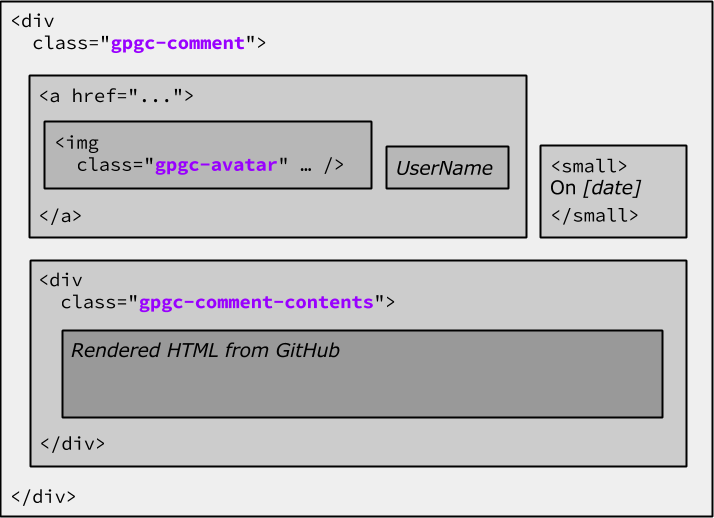
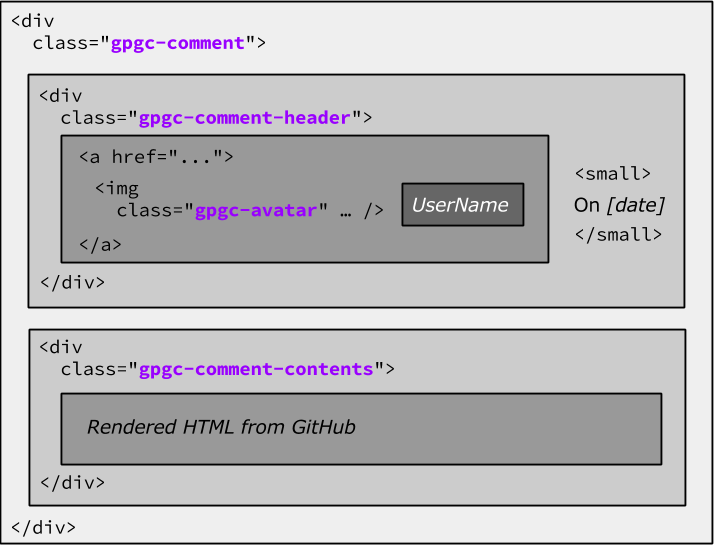
Update manual to describe new on-page commenting

diff --git a/advanced/manual.md b/advanced/manual.md
@@ -16,10 +16,12 @@ title: Manual
   * [When comments are presented](#presented)
   * [Comment structure](#comment-structure)
 * [Look and Feel with CSS](#look-and-feel)
+  * [Theme](#theme)
+  * [Class list](#class-list)
 
 ## <a id="theory-of-operation"></a>Theory of Operation
 
-ghpages-ghcomments associates a blog post with a GitHub issue using the post's **title** front matter.
+ghpages-ghcomments uses GitHub issues to store comments by associating a specific page with a specific GitHub issue using the page's **title** front matter.
 
 For example, using this title in a post
 
@@ -30,13 +32,21 @@ title: The Phrenic Shrine Reveals Itself
 ---
 ```
 
-causes ghpages-ghcomments to look for an issue titled _The Phrenic Shrine Reveals Itself_ in a specific GitHub repository.
+causes ghpages-ghcomments to look for an issue titled _The Phrenic Shrine Reveals Itself_ in the GitHub repository specified by **\_data/gpgc.yml**.
 
 ### <a id="jekyll"></a>Jekyll
 
-The algorithm for retrieving and presenting comments is in **\_includes/gpgc_comments.html**, and the input data is provided by **_data/gpgc.yml** and Jekyll variables.
+There are four files that implement ghpages-ghcomments:
 
-Including gpgc\_comments.html requires one [tag parameter](http://jekyllrb.com/docs/templates/#includes): **post_title**.
+* Structure:
+  * **includes/gpgc\_comments.html**
+* Behavior:
+  * **public/js/gpgc_core.js**
+  * **public/html/gpgc_redirect.html**
+* Data:
+  * **_data/gpgc.yml**
+
+Including gpgc\_comments.html requires one [Jekyll tag parameter](http://jekyllrb.com/docs/templates/#includes): **post_title**.
 
 For example, adding this line to **_layouts/post.html**
 
@@ -50,34 +60,58 @@ yields this input to **\_includes/gpgc_comments.html**
 
 {% raw %}
 <pre>
-findAndCollectComments(
-  "{{ site.data.gpgc.repo_owner }}",
-  "{{ site.data.gpgc.repo_name }}",
-  "{{ include.post_title }}");
+  var gpgc = {
+    site_url: "{{ site.url }}",
+    page_path: "{{ page.path }}",
+    issue_title: "{{ include.post_title }}",
+    repo_id: "{{ site.data.gpgc.repo_owner }}/{{ site.data.gpgc.repo_name }}",
+    use_show_action: {{ site.data.gpgc.use_show_action }},
+    github_application_client_id: "{{ site.data.gpgc.github_application.client_id }}",
+    github_application_code_authenticator_url: "{{ site.data.gpgc.github_application.code_authenticator }}",
+    github_application_login_redirect_url: "{{ site.data.gpgc.github_application.callback_url }}",
+    enable_diagnostics: {{ site.data.gpgc.enable_diagnostics }},
+  };
 </pre>
 {% endraw %}
 
 and is rendered to HTML by Jekyll like this:
 
-``` html
-findAndCollectComments(
-  "wireddown",
-  "ghpages-ghcomments",
-  "The Phrenic Shrine Reveals Itself");
+``` js
+  var gpgc = {
+    site_url: "http://downtothewire.io",
+    page_path: "_posts/2015-01-18-the-phrenic-shrine-reveals-itself.md",
+    issue_title: "The Phrenic Shrine Reveals Itself",
+    repo_id: "wireddown/ghpages-ghcomments",
+    use_show_action: true,
+    github_application_client_id: "0ef5ca17b24db4e46807",
+    github_application_code_authenticator_url: "https://ghpages-ghcomments.herokuapp.com/authenticate/",
+    github_application_login_redirect_url: "http://downtothewire.io/ghpages-ghcomments/public/html/gpgc_redirect/index.html",
+    enable_diagnostics: false,
+  };
 ```
 
 ### <a id="javascript"></a>JavaScript
 
-The JavaScript in **\_includes/gpgc_comments.html** has one entry point:
+ghpages-ghcomments has two fundamental capabilities:
+
+1. Finding and showing comments, accessible to every site visitor
+2. Drafting and posting a new comment, accessible to visitors that login to GitHub
+
+#### **Finding and showing comments**
+
+When a visitor views a page, ghpages-ghcomments uses the GitHub web API to find and show the comments for the page, which happens in three steps:
+
+1. Use the page's title to find the associated issue in the owner's repository.
+2. Retrieve the comments from the issue as HTML.
+3. Place the comments in the page's DOM.
+
+The process begins at the single entry point to **public/js/gpgc_core.js**:
 
 ```
-findAndCollectComments(
-  userName,
-  repositoryName,
-  issueTitle);
+gpgc_main();
 ```
 
-The function uses its parameters to build a [GitHub query](https://developer.github.com/v3/search/#search-issues) to search a repository's issues. Continuing the example above, the request looks like:
+After initializing the page, `gpgc_main()` calls `findAndCollectComments()`, which uses the global variable **gpgc** to build a [GitHub query](https://developer.github.com/v3/search/#search-issues) to search a repository's issues. Continuing the example above, the request looks like:
 
 ```
 https://api.github.com/search/issues?
@@ -87,7 +121,7 @@ https://api.github.com/search/issues?
   +in:title
 ```
 
-When the request returns, `onSearchComplete` parses the JSON sent by GitHub and
+When the request returns, `onSearchComplete()` parses the JSON sent by GitHub and
 
 * stores the issue's browser URL in the global variable `IssueUrl`
 * sends a request to [retrieve the issue's comments](https://developer.github.com/v3/issues/comments/#list-comments-on-an-issue)
@@ -98,7 +132,7 @@ Continuing the example above, the request looks like:
 https://api.github.com/repos/wireddown/ghpages-ghcomments/issues/4/comments
 ```
 
-When the request returns, `onCommentsUpdated` parses the JSON sent by GitHub and
+When the request returns, `onCommentsUpdated()` parses the JSON sent by GitHub and
 
 * appends the returned comments in the global variable `CommentsArray`
 * sends a request to retrieve the next page of the issue's comments
@@ -118,10 +152,9 @@ Continuing the example above, the second page of comments is retrieved by sendin
 https://api.github.com/repositories/29450581/issues/4/comments
 ```
 
-Once the last page has been collected, `updateCommentActions` adjusts the contents of the HTML structural elements (discussed below) to show the reader two actions:
+Once the last page has been collected, `updateCommentsAndActions()` adjusts the contents of the HTML structural elements (discussed below) to show the reader an action:
 
-* _Show *N* Comments_, which uses `presentAllComments` and `CommentsArray` to format and insert the comments in the document
-* _Leave a Comment_, which sends the reader to the comment entry box at `IssueUrl`, at the bottom of the issue page
+* _Show *N* Comments_, which uses `showAllComments()` and `CommentsArray` to format and insert the comments in the document
 
 All of the web requests for searches and comments are sent using `XMLHttpRequest` with a custom request header:
 
@@ -132,6 +165,35 @@ Accept:	application/vnd.github.v3.html+json
 This asks GitHub to return everything in JSON but to [render the markdown content to HTML](https://developer.github.com/v3/media/#comment-body-properties).
 
 In addition, GitHub has [permissive CORS](https://developer.github.com/v3/#cross-origin-resource-sharing), which allows `XMLHttpRequest` to make GitHub API calls in modern browsers without any additional configuration.
+
+#### **Drafting and posting a new comment**
+
+When a visitor wants to leave a comment, they must login to GitHub since the comments are stored in an issue for a GitHub repository.
+
+ghpages-ghcomments uses the [Web Application Flow](https://developer.github.com/v3/oauth/#web-application-flow) to authenticate a visitor with GitHub, which happens in three steps:
+
+1. Open a new browser window to redirect the visitor to login to GitHub.
+2. Upon login, close the newly opened window and exchange GitHub's temporary code with the visitor's OAuth token.
+3. Persist the visitor's token in the browser's local storage for the site so the visitor doesn't need to login every time.
+
+The process starts when the visitor clicks or taps the _Login_ button, which calls `loginToGitHub()` to build a **secure** [GitHub authentication request](https://developer.github.com/v3/oauth/#redirect-users-to-request-github-access) with URL-encoded data:
+
+``` js
+  var data = {
+    "client_id": gpgc.github_application_client_id,
+    "scope": "public_repo",
+    "state": StateChallenge,
+    "redirect_uri": gpgc.github_application_login_redirect_url
+  };
+```
+
+This request is opened in a new browser window so that it can handle GitHub's redirect and send the original window a message event. When the visitor logs in using the new window, GitHub redirects back to the `redirect_uri` with a temporary `code` and the `state` provided in the request. The `redirect_uri` is a simple JavaScript-only Jekyll page (**public/html/gpgc_redirect.html**) that uses the data from GitHub's response to send a message event to the original window before closing itself.
+
+The original window handles the event in `onMessage()`, and inspects the event data to confirm the security of the transaction. Once the message has been verified, ghpages-ghcomments uses a simple GitHub application to exchange the temporary code with a revocable OAuth token. For more details about this step, see [Custom GitHub App](../custom-github-app/).
+
+The last login step is saving the OAuth token in the site's local storage. The next time the visitor returns, ghpages-ghcomments automatically authenticates them with GitHub with the [User API](https://developer.github.com/v3/users/#get-the-authenticated-user).
+
+Once logged in, the visitor can post their draft as a new comment. ghpages-ghcomments uses the [GitHub Markdown API](https://developer.github.com/v3/markdown/#render-an-arbitrary-markdown-document) to render a markdown draft in HTML when the visitor clicks or taps the _Preview_ button, and uses the [GitHub Issue API](https://developer.github.com/v3/issues/comments/#create-a-comment) to add comment to the page's associated issue when the visitor clicks or taps the _Submit_ button.
 
 ### <a id="git"></a>git
 
@@ -221,70 +283,101 @@ When the **pre-push** hook creates a [label](https://developer.github.com/v3/iss
 
 ## <a id="html-structure"></a>HTML Structure
 
+The source is the authority on the HTML structure (**[includes/gpgc\_comments.html](https://raw.githubusercontent.com/wireddown/ghpages-ghcomments/release/_includes/gpgc_comments.html)**) but here is an [image illustrating the layout]({{ site.baseurl }}/images/HtmlStructureComplete.png). It will be helpful to keep one of these open while reading this section.
+
 ### <a id="on-load"></a>On load
 
-When a post page loads, there are HTML container elements without any renderable content. To the reader, there is nothing to see.
+When a ghcomments-ghpages page loads, several `<div>` elements begin hidden:
 
-![HTML structure on load]({{ site.baseurl }}/images/HtmlStructureOnLoad.png)
+* **gpgc\_all\_comments**, which holds all of the comments
+* **gpgc\_no\_comments**, which holds a message saying there are no comments
+* **gpgc\_actions**, which allows the visitor to show comments
+* **gpgc\_reader\_error**, which shows any error or diagnostic messages
+
+At the same time, ghpages-ghcomments searches for the page's associated issue and its comments. Depending on whether there are comments, the layout updates. Regardless, the new comment form is initialized to allow the visitor to draft a comment.
 
 ### <a id="no-comments"></a>When there are no comments
 
-Once ghpages-ghcomments has queried GitHub for the post's comments and determines there are none, it
-
-* places a `<p>` element in the **all-comments** `<div>`
-* keeps the **load-comments-button** `<span>` empty
-* places an `<a>` element in the **leave-comment-link** `<span>`
-
-![HTML structure for no comments]({{ site.baseurl }}/images/HtmlStructureNoComments.png)
+Once ghpages-ghcomments has queried GitHub for the post's comments and determines there are none, it shows the **gpgc\_no\_comments** `<div>`.
 
 ### <a id="comments"></a>When there are comments
 
 Once ghpages-ghcomments has retrieved all of the comments for a post, it
 
-* keeps the **all-comments** `<div>` empty
-* places a `<button>` element in the **load-comments-button** `<span>`
-* places an `<a>` element in the **leave-comment-link** `<span>`
+* formats all the comments via `formatAllComments()` and places them in the still-hidden **gpgc\_all\_comments** `<div>`
+* updates the **show\_comments\_button** `<button>` with a "Show *N* comments" message
 
-![HTML structure with comments]({{ site.baseurl }}/images/HtmlStructureWithComments.png)
+If **data/gpgc.yml** specifies **true** for `use_show_action`, then ghpages-ghcomments shows the **show\_comments\_button** `<button>`; otherwise, it shows the **gpgc\_all\_comments** `<div>`.
 
 ### <a id="presented"></a>When comments are presented
 
-When the user clicks or taps the _"Show N Comments"_ button, it
-
-* formats all the comments and places them in the **all-comments** `<div>`
-* makes the **load-comments-button** `<span>` empty
-* leaves the **leave-comment-link** `<span>` unchanged
-
-![HTML structure showing comments]({{ site.baseurl }}/images/HtmlStructureShowingComments.png)
+When the user clicks or taps the **show\_comments\_button** `<button>`, ghpages-ghcomments hides the button and shows the **gpgc\_all\_comments** `<div>`.
 
 ### <a id="comment-structure"></a>Comment structure
 
-Each comment is placed in its own **gpgc-comment** `<div>` with the following structure:
+Each comment is placed in its own `<div>` with the following structure:
 
 ![HTML structure for a comment]({{ site.baseurl }}/images/HtmlStructureForComment.png)
 
 ## <a id="look-and-feel"></a>Look and Feel with CSS
 
-Class list:
+### <a id="theme"></a>Theme
 
-* **.gpgc-actions**
-  * `<div>` container that holds both the _'Show N Comments'_ and _'Leave a Comment'_ buttons
-* **.gpgc-action**
-  * `<span>` container that holds either the _'Show N Comments'_ or _'Leave a Comment'_ button
-* **.gpgc-show**
-  * `<button>` element for the _'Show N Comments'_ button
-* **.gpgc-leave**
-  * `<a>` element for the _'Leave a Comment'_ button
-* **.gpgc-no-comments**
-  * `<p>` element for _'No comments'_ message
-* **.gpgc-all-comments**
-  * `<div>` container that holds all of the comments
-* **.gpgc-comment**
-  * `<div>` container that holds a single comment's header and contents
-* **.gpgc-avatar**
-  * `<img>` element that presents a user's avatar
-* **.gpgc-comment-contents**
-  * `<div>` element that holds the GitHub comment contents
+The color theme is specified at the top of **public/css/gpgc_styles.css**.
+
+### <a id="class-list"></a>Class list
+
+* Comments
+  * **.gpgc-comment**
+    <br /> `<div>` container that holds a single comment's header and contents
+  * **.gpgc-comment-header**
+    <br /> `<div>` container that holds a single comment's header
+  * **.gpgc-avatar**
+    <br /> `<img>` element that presents a user's avatar
+  * **.gpgc-comment-contents**
+    <br /> `<div>` container that holds the GitHub comment contents
+* New comment
+  * **.gpgc-new-comment**
+    <br /> `<div>` container that holds the comment draft elements
+  * **.gpgc-new-comment-form**
+    <br /> `<div>` container that holds the comment form
+  * **gpgc-new-comment-form-textarea**
+    <br /> `<textarea>` element for entering a new comment
+  * **.gpgc-tabs**
+    <br /> `<div>` container that holds the _Write_ and _Preview_ buttons
+  * **.gpgc-tab**
+    <br /> `<button>` element that behaves like tab
+  * **.gpgc-new-comment-actions**
+    <br /> `<div>` container that holds the _Login_ and _Submit_ buttons
+  * **.gpgc-comment-help**
+    <br /> `<div>` container that holds just-in-time help messages
+* _'Show N Comments'_ button
+  * **.gpgc-actions**
+    <br /> `<div>` container that holds the _'Show N Comments'_ `<span>`
+  * **.gpgc-action**
+    <br /> `<span>` container that holds the _'Show N Comments'_ `<button>`
+* Mixins
+  * **.gpgc-hidden**
+    <br /> Hides an element
+  * **.gpgc-centered-text**
+    <br /> Centers the text in the element
+  * **.gpgc-comments-font**
+    <br /> Sets the font traits for the element
+  * **.gpgc-new-section**
+    <br /> Sets the top margin for the element
+  * **.gpgc-normal-primary-button**
+    <br /> `<button>` element that has an emphasized look and feel
+  * **.gpgc-large-secondary-button**
+    <br /> `<button>` element that has a diminished look and feel
+  * **.gpgc-text-button**
+    <br /> `<button>` element that has a text look and feel
+  * **.gpgc-help-message**
+    <br /> `<div>` container for showing a help message
+  * **.gpgc-help-error**
+    <br /> `<div>` container for showing an error message
+* Misc
+  * **.gpgc\_last\_div**
+    <br /> `<div>` container for the last div, adds a bottom margin
 
 ---
 
